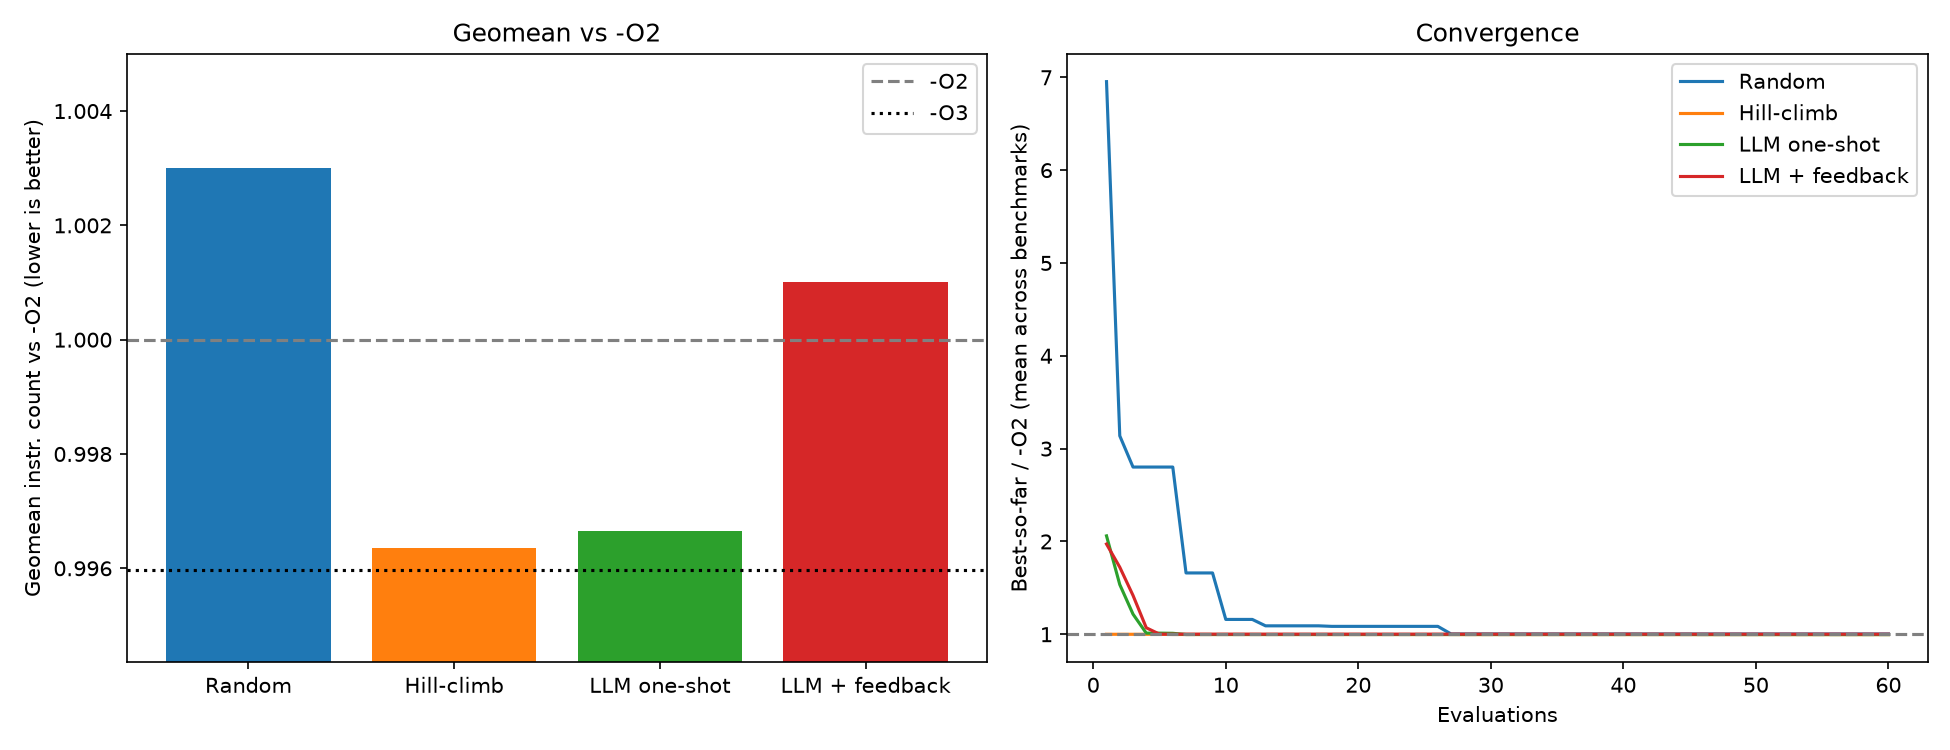
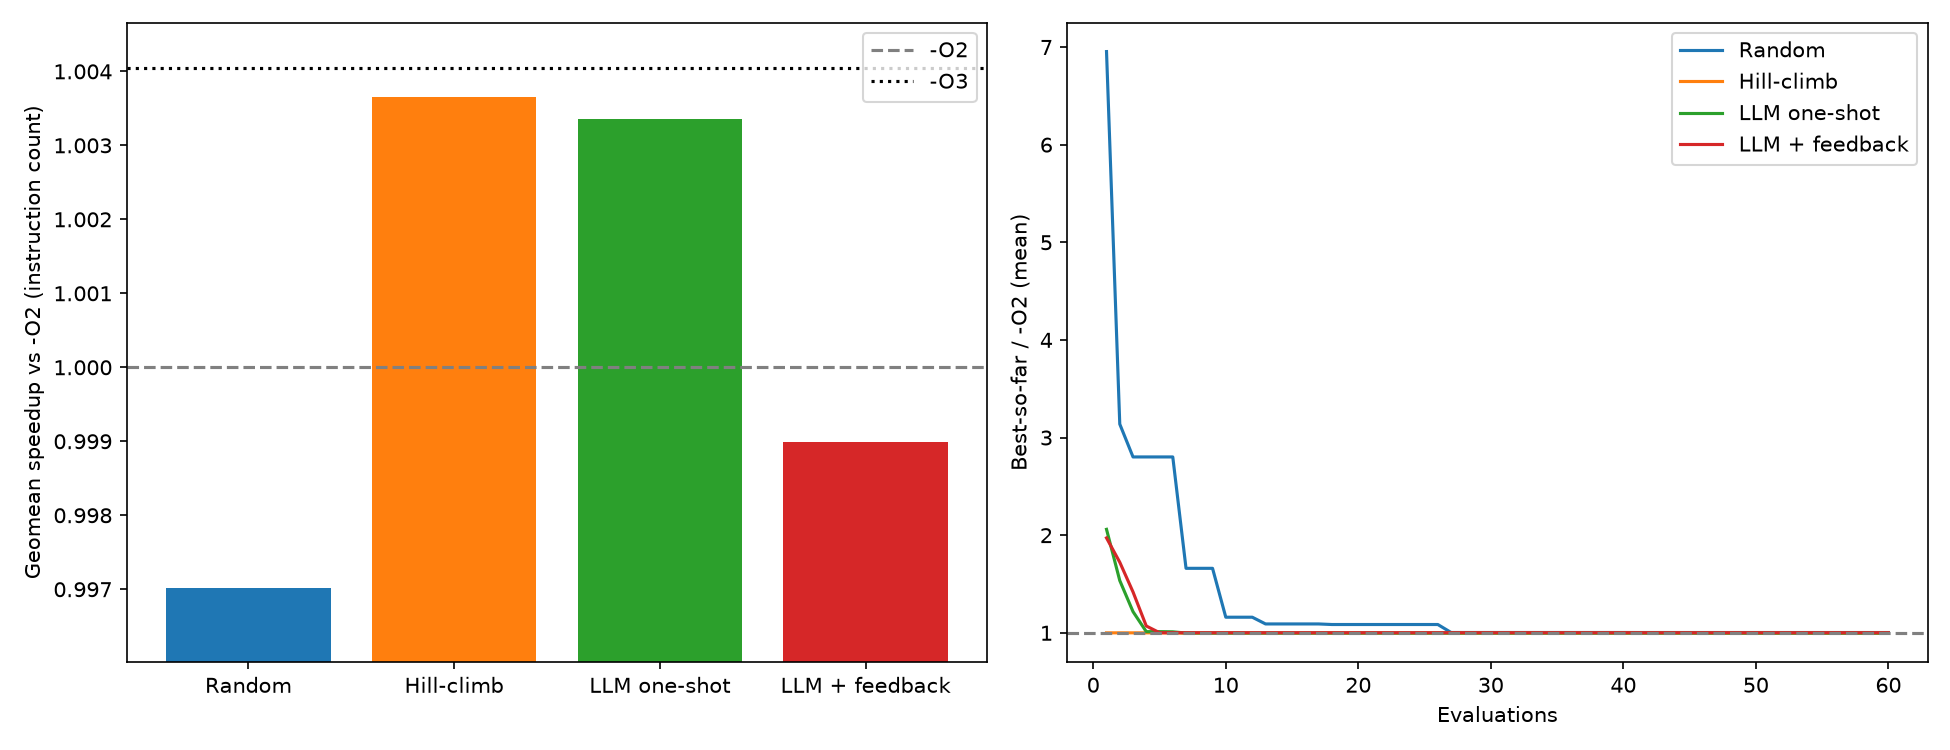
chore: dedupe redundant ylim call, sync headline plot generation

diff --git a/scripts/plot_headline.py b/scripts/plot_headline.py
@@ -25,6 +25,7 @@ o3 = geomean((base["O2"] / base["O3"]).values)
 ax1.axhline(o3, ls=":", c="black", label="-O3")
 ax1.set_ylabel("Geomean speedup vs -O2 (instruction count)")
 ax1.legend()
+ax1.set_ylim(min(gms + [o3]) * 0.999, max(gms + [1.0]) * 1.001)
 
 # right: mean convergence across benchmarks
 for m, lbl in zip(methods, labels):